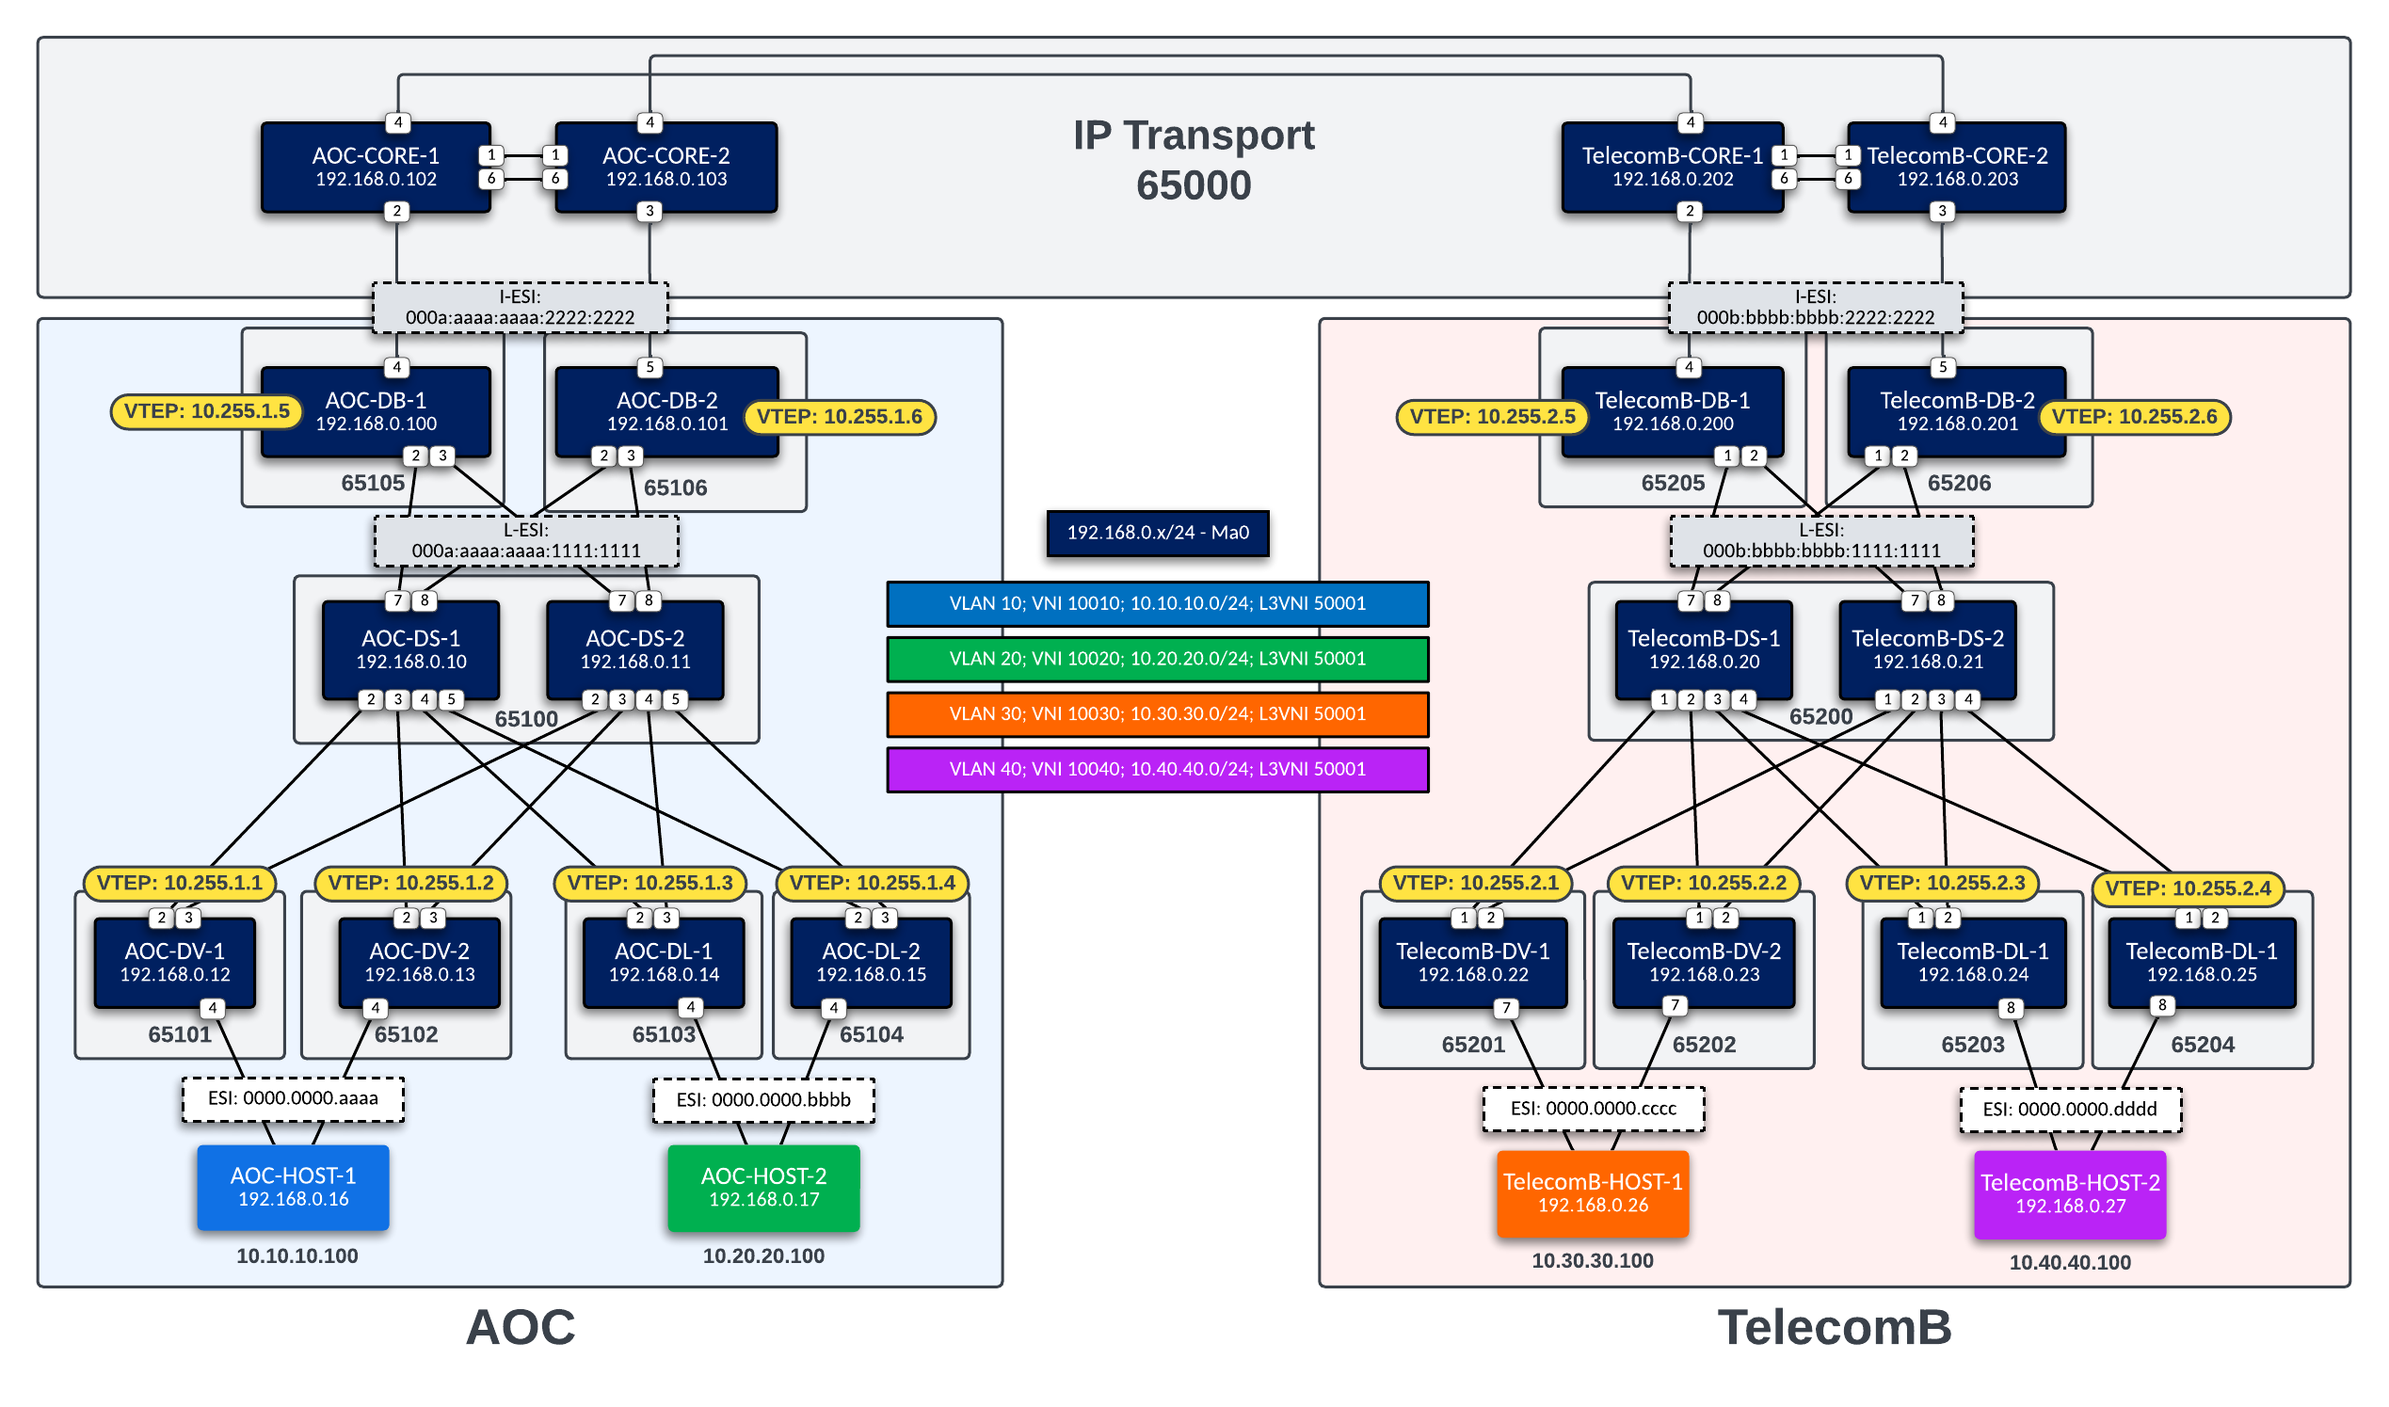
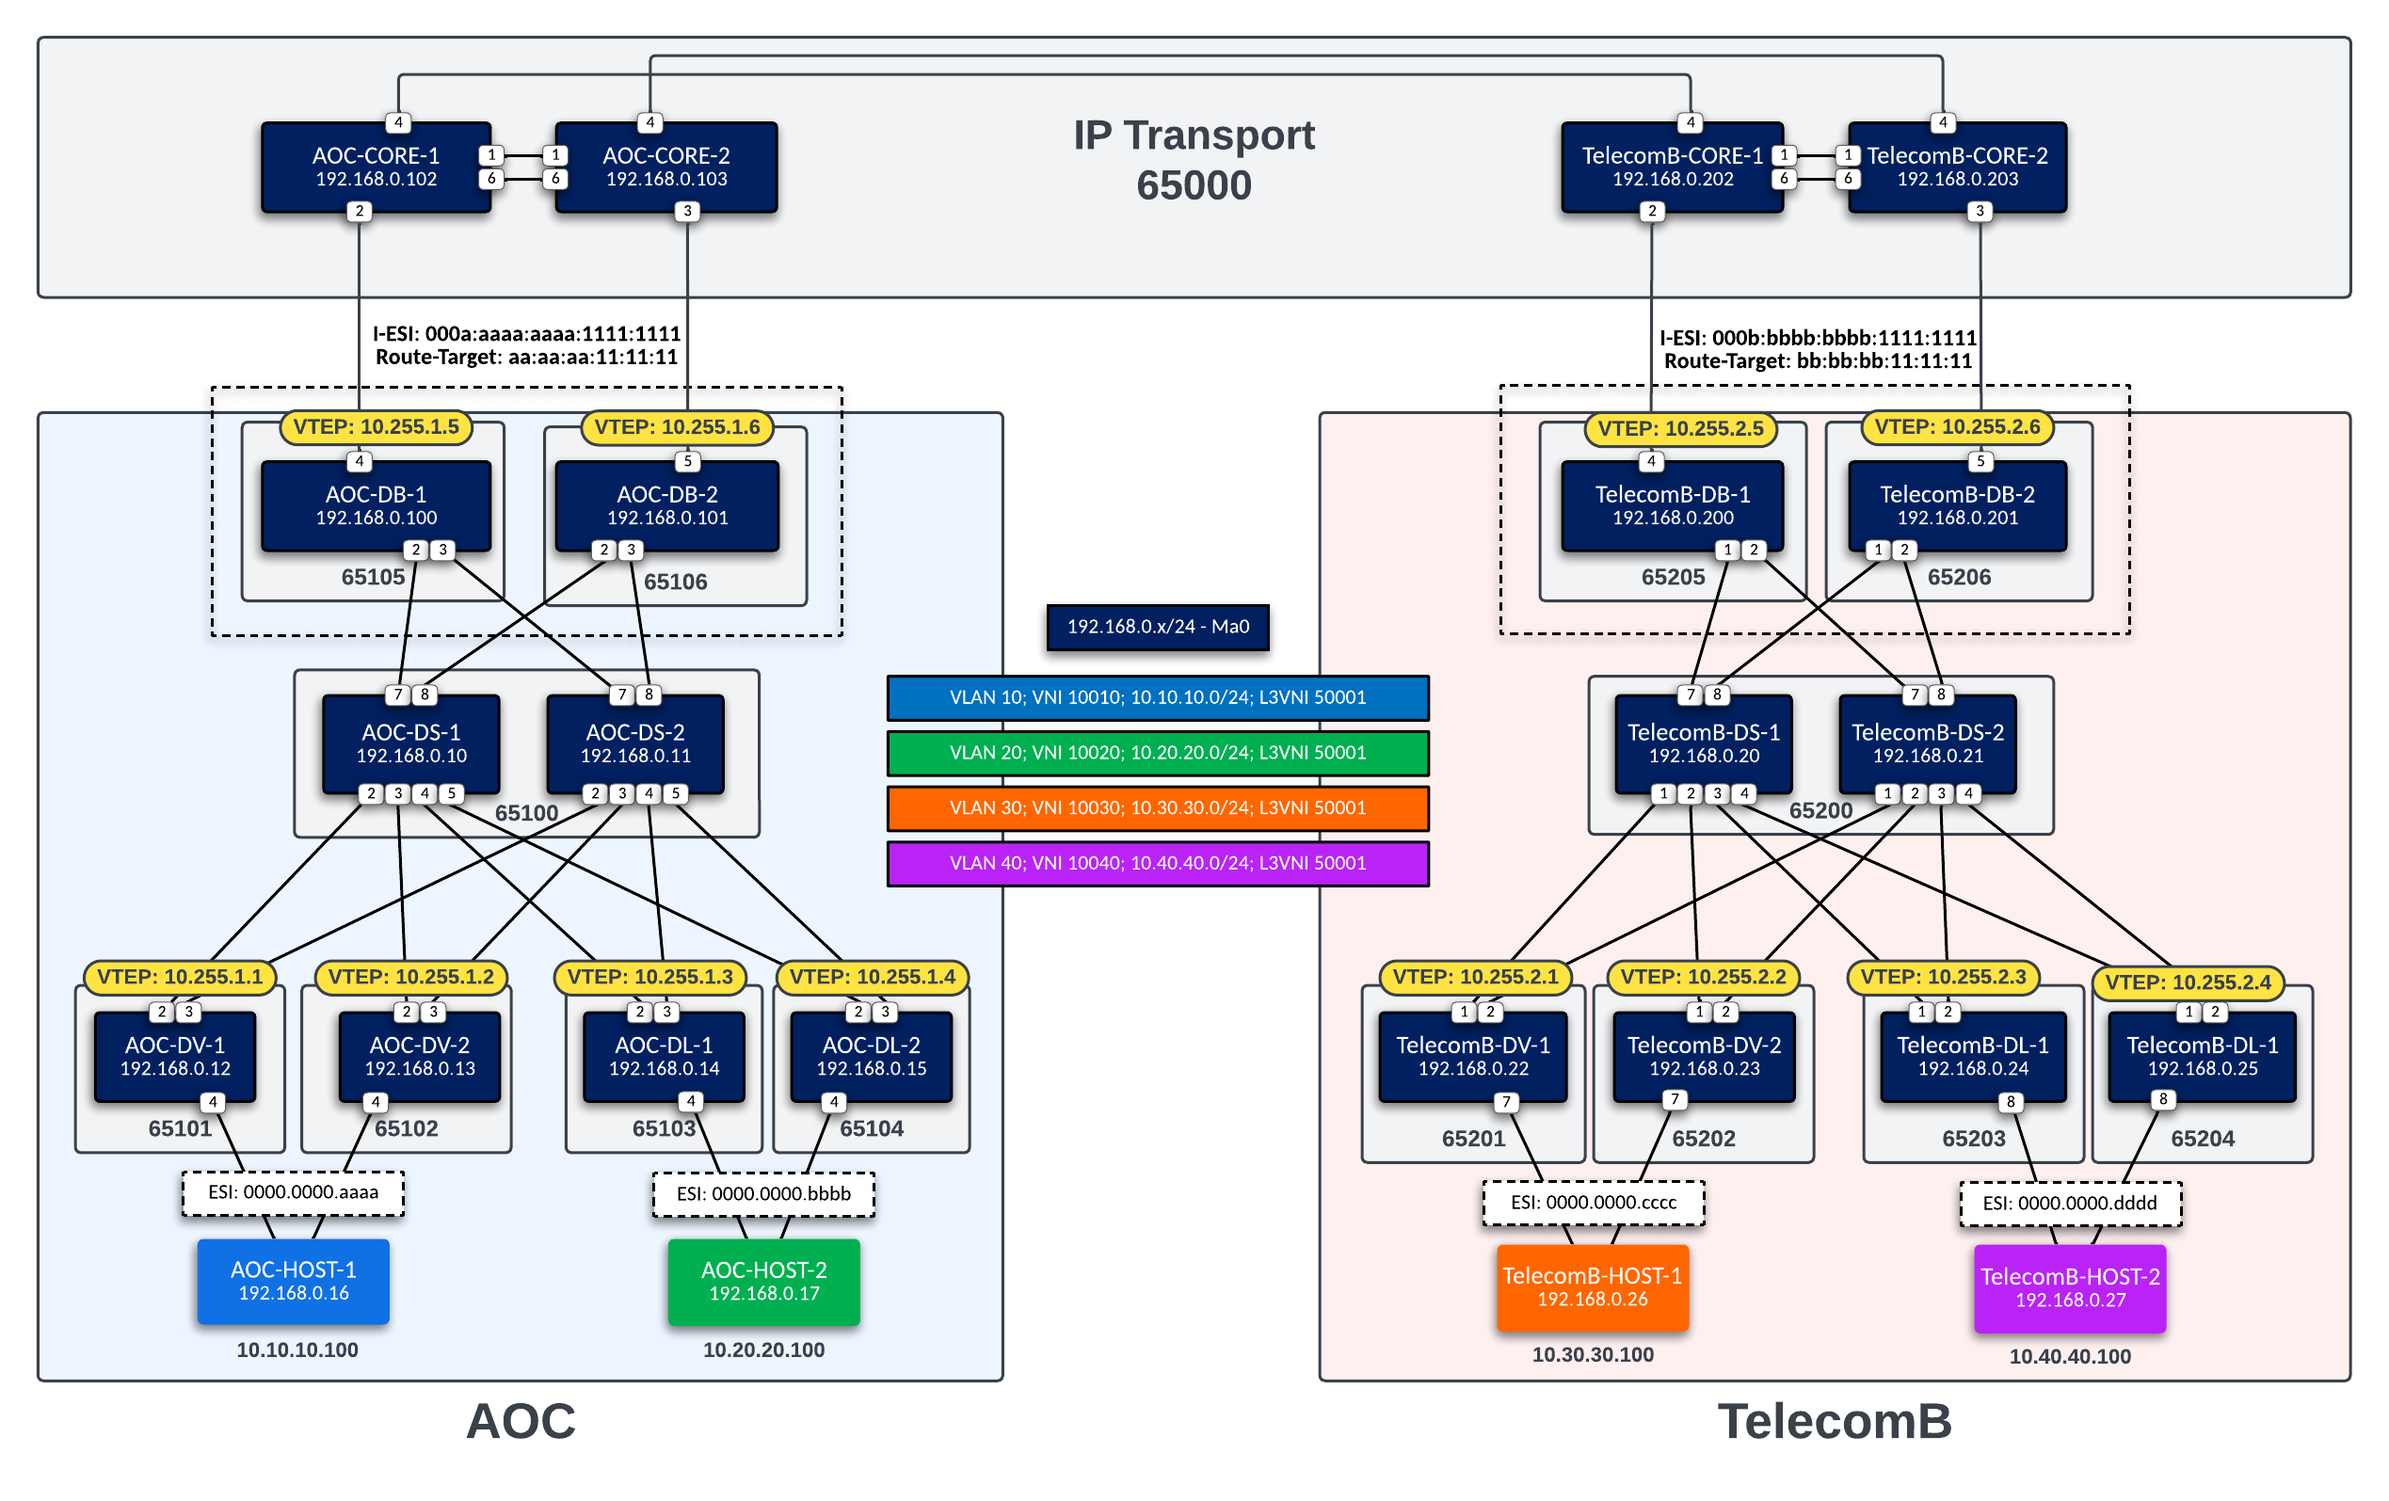
fixed ESI to use domain all

Changed region(s): [[0.0, 0.0, 0.9961, 0.9538], [0.9649, 0.2462, 0.9961, 0.2769]]

diff --git a/sites/AOC/documentation/devices/AOC-DB-1.md b/sites/AOC/documentation/devices/AOC-DB-1.md
@@ -596,10 +596,8 @@ ASN Notation: asplain
 | Local Domain | 1:1 |
 | Remote Domain | 2:2 |
 | Remote Domain Peer Groups | EVPN-OVERLAY-CORE |
-| Local Domain: Ethernet-Segment Identifier | 000a:aaaa:aaaa:1111:1111 |
-| Local Domain: Ethernet-Segment import Route-Target | aa:aa:aa:11:11:11 |
-| Remote Domain: Ethernet-Segment Identifier | 000a:aaaa:aaaa:2222:2222 |
-| Remote Domain: Ethernet-Segment import Route-Target | aa:aa:aa:22:22:22 |
+| All Domain: Ethernet-Segment Identifier | 000a:aaaa:aaaa:1111:1111 |
+| All Domain: Ethernet-Segment import Route-Target | aa:aa:aa:11:11:11 |
 
 #### Router BGP VLANs
 
@@ -698,13 +696,9 @@ router bgp 65105
       domain identifier 2:2 remote
       route import match-failure action discard
       !
-      evpn ethernet-segment domain local
+      evpn ethernet-segment domain all
          identifier 000a:aaaa:aaaa:1111:1111
          route-target import aa:aa:aa:11:11:11
-      !
-      evpn ethernet-segment domain remote
-         identifier 000a:aaaa:aaaa:2222:2222
-         route-target import aa:aa:aa:22:22:22
    !
    address-family ipv4
       no neighbor EVPN-OVERLAY-CORE activate

diff --git a/sites/AOC/documentation/devices/AOC-DB-2.md b/sites/AOC/documentation/devices/AOC-DB-2.md
@@ -596,10 +596,8 @@ ASN Notation: asplain
 | Local Domain | 1:1 |
 | Remote Domain | 2:2 |
 | Remote Domain Peer Groups | EVPN-OVERLAY-CORE |
-| Local Domain: Ethernet-Segment Identifier | 000a:aaaa:aaaa:1111:1111 |
-| Local Domain: Ethernet-Segment import Route-Target | aa:aa:aa:11:11:11 |
-| Remote Domain: Ethernet-Segment Identifier | 000a:aaaa:aaaa:2222:2222 |
-| Remote Domain: Ethernet-Segment import Route-Target | aa:aa:aa:22:22:22 |
+| All Domain: Ethernet-Segment Identifier | 000a:aaaa:aaaa:1111:1111 |
+| All Domain: Ethernet-Segment import Route-Target | aa:aa:aa:11:11:11 |
 
 #### Router BGP VLANs
 
@@ -698,13 +696,9 @@ router bgp 65106
       domain identifier 2:2 remote
       route import match-failure action discard
       !
-      evpn ethernet-segment domain local
+      evpn ethernet-segment domain all
          identifier 000a:aaaa:aaaa:1111:1111
          route-target import aa:aa:aa:11:11:11
-      !
-      evpn ethernet-segment domain remote
-         identifier 000a:aaaa:aaaa:2222:2222
-         route-target import aa:aa:aa:22:22:22
    !
    address-family ipv4
       no neighbor EVPN-OVERLAY-CORE activate

diff --git a/sites/TelecomB/documentation/devices/TelecomB-DB-1.md b/sites/TelecomB/documentation/devices/TelecomB-DB-1.md
@@ -596,10 +596,8 @@ ASN Notation: asplain
 | Local Domain | 2:2 |
 | Remote Domain | 1:1 |
 | Remote Domain Peer Groups | EVPN-OVERLAY-CORE |
-| Local Domain: Ethernet-Segment Identifier | 000b:bbbb:bbbb:1111:1111 |
-| Local Domain: Ethernet-Segment import Route-Target | bb:bb:bb:11:11:11 |
-| Remote Domain: Ethernet-Segment Identifier | 000b:bbbb:bbbb:2222:2222 |
-| Remote Domain: Ethernet-Segment import Route-Target | bb:bb:bb:22:22:22 |
+| All Domain: Ethernet-Segment Identifier | 000b:bbbb:bbbb:1111:1111 |
+| All Domain: Ethernet-Segment import Route-Target | bb:bb:bb:11:11:11 |
 
 #### Router BGP VLANs
 
@@ -698,13 +696,9 @@ router bgp 65205
       domain identifier 1:1 remote
       route import match-failure action discard
       !
-      evpn ethernet-segment domain local
+      evpn ethernet-segment domain all
          identifier 000b:bbbb:bbbb:1111:1111
          route-target import bb:bb:bb:11:11:11
-      !
-      evpn ethernet-segment domain remote
-         identifier 000b:bbbb:bbbb:2222:2222
-         route-target import bb:bb:bb:22:22:22
    !
    address-family ipv4
       no neighbor EVPN-OVERLAY-CORE activate

diff --git a/sites/TelecomB/documentation/devices/TelecomB-DB-2.md b/sites/TelecomB/documentation/devices/TelecomB-DB-2.md
@@ -596,10 +596,8 @@ ASN Notation: asplain
 | Local Domain | 2:2 |
 | Remote Domain | 1:1 |
 | Remote Domain Peer Groups | EVPN-OVERLAY-CORE |
-| Local Domain: Ethernet-Segment Identifier | 000b:bbbb:bbbb:1111:1111 |
-| Local Domain: Ethernet-Segment import Route-Target | bb:bb:bb:11:11:11 |
-| Remote Domain: Ethernet-Segment Identifier | 000b:bbbb:bbbb:2222:2222 |
-| Remote Domain: Ethernet-Segment import Route-Target | bb:bb:bb:22:22:22 |
+| All Domain: Ethernet-Segment Identifier | 000b:bbbb:bbbb:1111:1111 |
+| All Domain: Ethernet-Segment import Route-Target | bb:bb:bb:11:11:11 |
 
 #### Router BGP VLANs
 
@@ -698,13 +696,9 @@ router bgp 65206
       domain identifier 1:1 remote
       route import match-failure action discard
       !
-      evpn ethernet-segment domain local
+      evpn ethernet-segment domain all
          identifier 000b:bbbb:bbbb:1111:1111
          route-target import bb:bb:bb:11:11:11
-      !
-      evpn ethernet-segment domain remote
-         identifier 000b:bbbb:bbbb:2222:2222
-         route-target import bb:bb:bb:22:22:22
    !
    address-family ipv4
       no neighbor EVPN-OVERLAY-CORE activate
